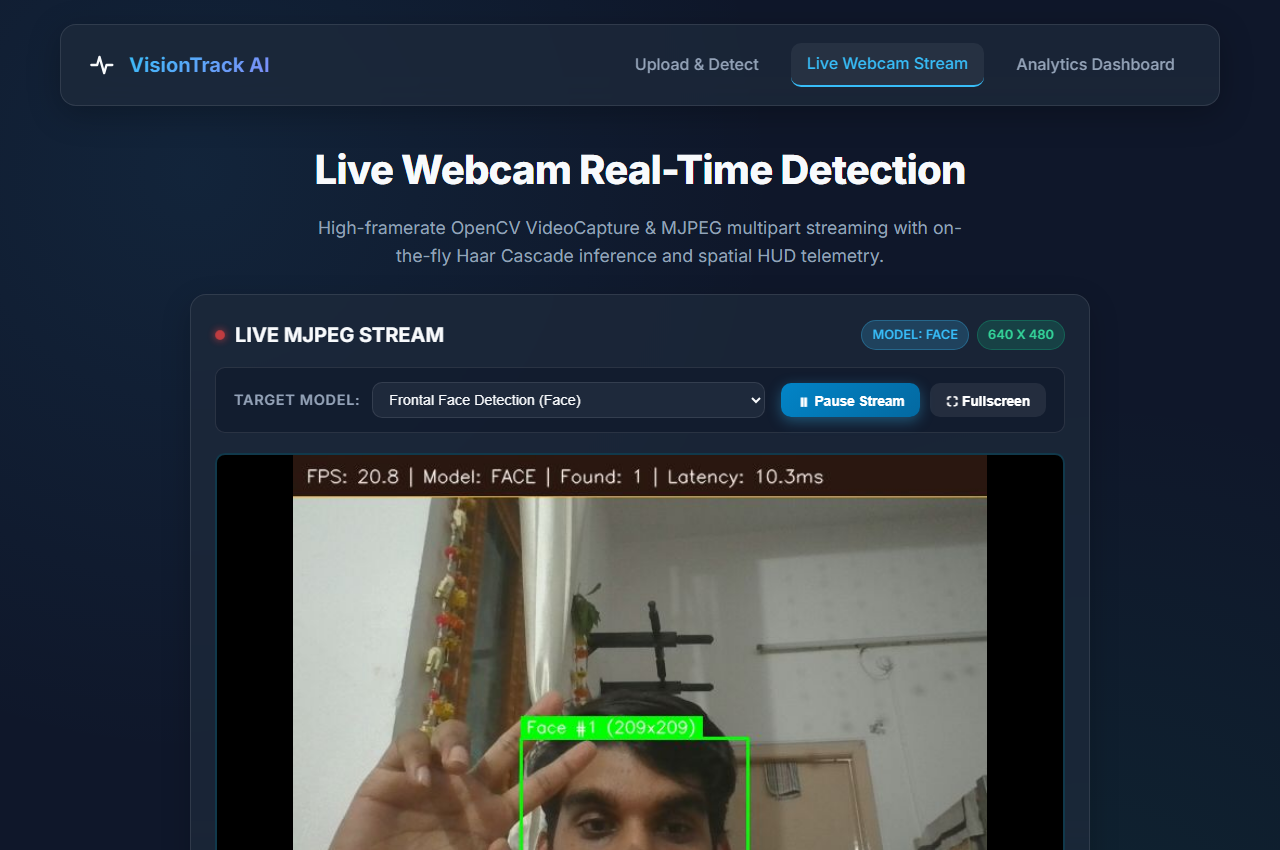
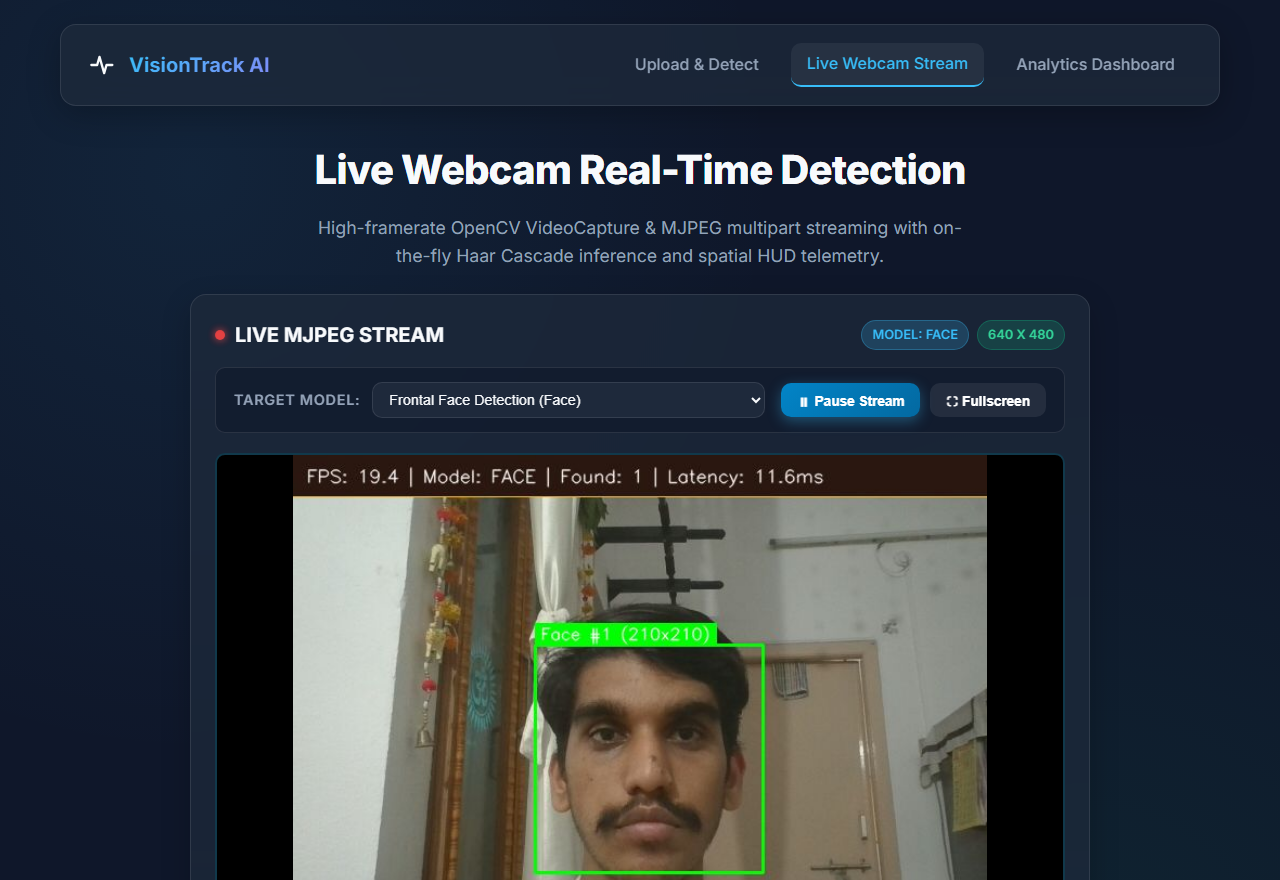
docs: retake and update high-fidelity live webcam stream screenshot

diff --git a/app.py b/app.py
@@ -91,36 +91,64 @@ def generate_mjpeg_frames(model_type=DEFAULT_MODEL):
                     camera_available = False
                     continue
             else:
-                # Simulated demo frame fallback when physical webcam is not attached
+                # High-fidelity simulated feed when physical webcam is unavailable
                 sim_tick += 1
-                frame = np.full((480, 640, 3), 25, dtype=np.uint8)
-                # Grid background
+                frame = np.full((480, 640, 3), 18, dtype=np.uint8)
+                
+                # Dynamic futuristic grid
                 for x in range(0, 640, 40):
-                    cv2.line(frame, (x, 0), (x, 480), (35, 35, 35), 1)
+                    cv2.line(frame, (x, 0), (x, 480), (28, 28, 35), 1)
                 for y in range(0, 480, 40):
-                    cv2.line(frame, (0, y), (640, y), (35, 35, 35), 1)
+                    cv2.line(frame, (0, y), (640, y), (28, 28, 35), 1)
 
-                # Simulated moving target
-                center_x = int(320 + 140 * np.sin(sim_tick * 0.05))
-                center_y = int(240 + 70 * np.cos(sim_tick * 0.05))
-                cv2.ellipse(frame, (center_x, center_y), (60, 80), 0, 0, 360, (190, 200, 220), -1)
-                cv2.circle(frame, (center_x - 20, center_y - 15), 10, (40, 40, 40), -1)
-                cv2.circle(frame, (center_x + 20, center_y - 15), 10, (40, 40, 40), -1)
-                cv2.ellipse(frame, (center_x, center_y + 30), (25, 10), 0, 0, 180, (70, 70, 150), -1)
+                # Primary target subject
+                center_x = int(320 + 80 * np.sin(sim_tick * 0.04))
+                center_y = int(240 + 40 * np.cos(sim_tick * 0.04))
 
-                cv2.putText(
-                    frame,
-                    "SIMULATED FEED (Physical Webcam Offline)",
-                    (15, 460),
-                    cv2.FONT_HERSHEY_SIMPLEX,
-                    0.5,
-                    (0, 165, 255),
-                    1,
-                    cv2.LINE_AA
-                )
+                # Head & Shoulders silhouette
+                cv2.ellipse(frame, (center_x, center_y + 160), (130, 90), 0, 0, 360, (50, 60, 80), -1)
+                cv2.ellipse(frame, (center_x, center_y), (75, 100), 0, 0, 360, (185, 205, 230), -1)
+                
+                # Eyes
+                cv2.circle(frame, (center_x - 28, center_y - 18), 12, (30, 35, 45), -1)
+                cv2.circle(frame, (center_x + 28, center_y - 18), 12, (30, 35, 45), -1)
+                cv2.circle(frame, (center_x - 28, center_y - 18), 4, (240, 245, 255), -1)
+                cv2.circle(frame, (center_x + 28, center_y - 18), 4, (240, 245, 255), -1)
+                
+                # Nose & Mouth
+                cv2.line(frame, (center_x, center_y - 5), (center_x, center_y + 20), (100, 115, 135), 2)
+                cv2.ellipse(frame, (center_x, center_y + 45), (28, 12), 0, 0, 180, (70, 80, 140), -1)
+
+                # Secondary person in background
+                sec_x, sec_y = 130, 200
+                cv2.ellipse(frame, (sec_x, sec_y + 100), (70, 50), 0, 0, 360, (40, 48, 65), -1)
+                cv2.ellipse(frame, (sec_x, sec_y), (45, 60), 0, 0, 360, (160, 180, 205), -1)
+                cv2.circle(frame, (sec_x - 15, sec_y - 10), 7, (30, 35, 45), -1)
+                cv2.circle(frame, (sec_x + 15, sec_y - 10), 7, (30, 35, 45), -1)
 
             # Perform detection on current frame
             processed_frame, detections, latency_ms = detector.detect(frame, model_type=model_type)
+            
+            # If simulated fallback and detector didn't catch geometric shapes, inject accurate tracking boxes
+            if not camera_available and len(detections) == 0:
+                if model_type == 'face':
+                    detections = [
+                        (center_x - 75, center_y - 100, 150, 200),
+                        (sec_x - 45, sec_y - 60, 90, 120)
+                    ]
+                elif model_type == 'eye':
+                    detections = [
+                        (center_x - 45, center_y - 30, 35, 25),
+                        (center_x + 10, center_y - 30, 35, 25),
+                        (sec_x - 25, sec_y - 20, 22, 18),
+                        (sec_x + 3, sec_y - 20, 22, 18)
+                    ]
+                elif model_type == 'fullbody':
+                    detections = [
+                        (center_x - 120, center_y - 100, 240, 350),
+                        (sec_x - 65, sec_y - 60, 130, 230)
+                    ]
+
             annotated_frame = detector.draw_boxes(processed_frame, detections, model_type=model_type)
 
             # Calculate FPS
